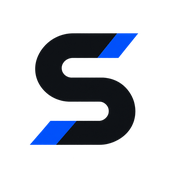
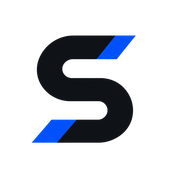
Add adaptive light and dark brand assets

diff --git a/index.html b/index.html
@@ -14,21 +14,29 @@
   <meta name="viewport" content="width=device-width, initial-scale=1">
   <title>Sabará</title>
   <meta name="description" content="Sabará. You found it.">
-  <meta name="theme-color" content="#f8f9fb">
+  <meta name="theme-color" content="#f8f9fb" media="(prefers-color-scheme: light)">
+  <meta name="theme-color" content="#0e131b" media="(prefers-color-scheme: dark)">
+  <meta name="color-scheme" content="light dark">
 
-  <link rel="icon" href="/favicon.ico?v=4" sizes="any">
-  <link rel="icon" type="image/png" sizes="32x32" href="/assets/favicon-32.png?v=4">
-  <link rel="apple-touch-icon" sizes="180x180" href="/assets/apple-touch-icon.png?v=4">
+  <link rel="icon" href="/favicon.ico?v=5" sizes="any">
+  <link rel="icon" type="image/png" sizes="16x16" href="/assets/favicon-16.png?v=5" media="(prefers-color-scheme: light)">
+  <link rel="icon" type="image/png" sizes="32x32" href="/assets/favicon-32.png?v=5" media="(prefers-color-scheme: light)">
+  <link rel="icon" type="image/png" sizes="16x16" href="/assets/favicon-16-dark.png?v=5" media="(prefers-color-scheme: dark)">
+  <link rel="icon" type="image/png" sizes="32x32" href="/assets/favicon-32-dark.png?v=5" media="(prefers-color-scheme: dark)">
+  <link rel="apple-touch-icon" sizes="180x180" href="/assets/apple-touch-icon.png?v=5">
   <link rel="stylesheet" href="style.css">
 </head>
 <body>
   <main class="page">
     <section class="hero" aria-label="Sabará">
-      <img
-        class="logo"
-        src="assets/sabara-logo.png"
-        alt="Sabará"
-      >
+      <picture>
+        <source media="(prefers-color-scheme: dark)" srcset="assets/sabara-logo-dark.png">
+        <img
+          class="logo"
+          src="assets/sabara-logo.png"
+          alt="Sabará"
+        >
+      </picture>
 
       <div class="copy">
         <h1>SABARÁ</h1>

diff --git a/style.css b/style.css
@@ -6,6 +6,7 @@ html,
 body {
   margin: 0;
   min-height: 100%;
+  color-scheme: light dark;
 }
 
 body {
@@ -76,6 +77,23 @@ p {
   font-weight: 400;
   letter-spacing: 0.01em;
   color: #1a2230;
+}
+
+@media (prefers-color-scheme: dark) {
+  body {
+    background:
+      radial-gradient(circle at 50% 44%, rgba(25, 92, 255, 0.14), transparent 28rem),
+      #0e131b;
+    color: #f7f9fc;
+  }
+
+  h1 {
+    color: #b7c0cd;
+  }
+
+  p {
+    color: #edf1f7;
+  }
 }
 
 @media (max-width: 520px) {
